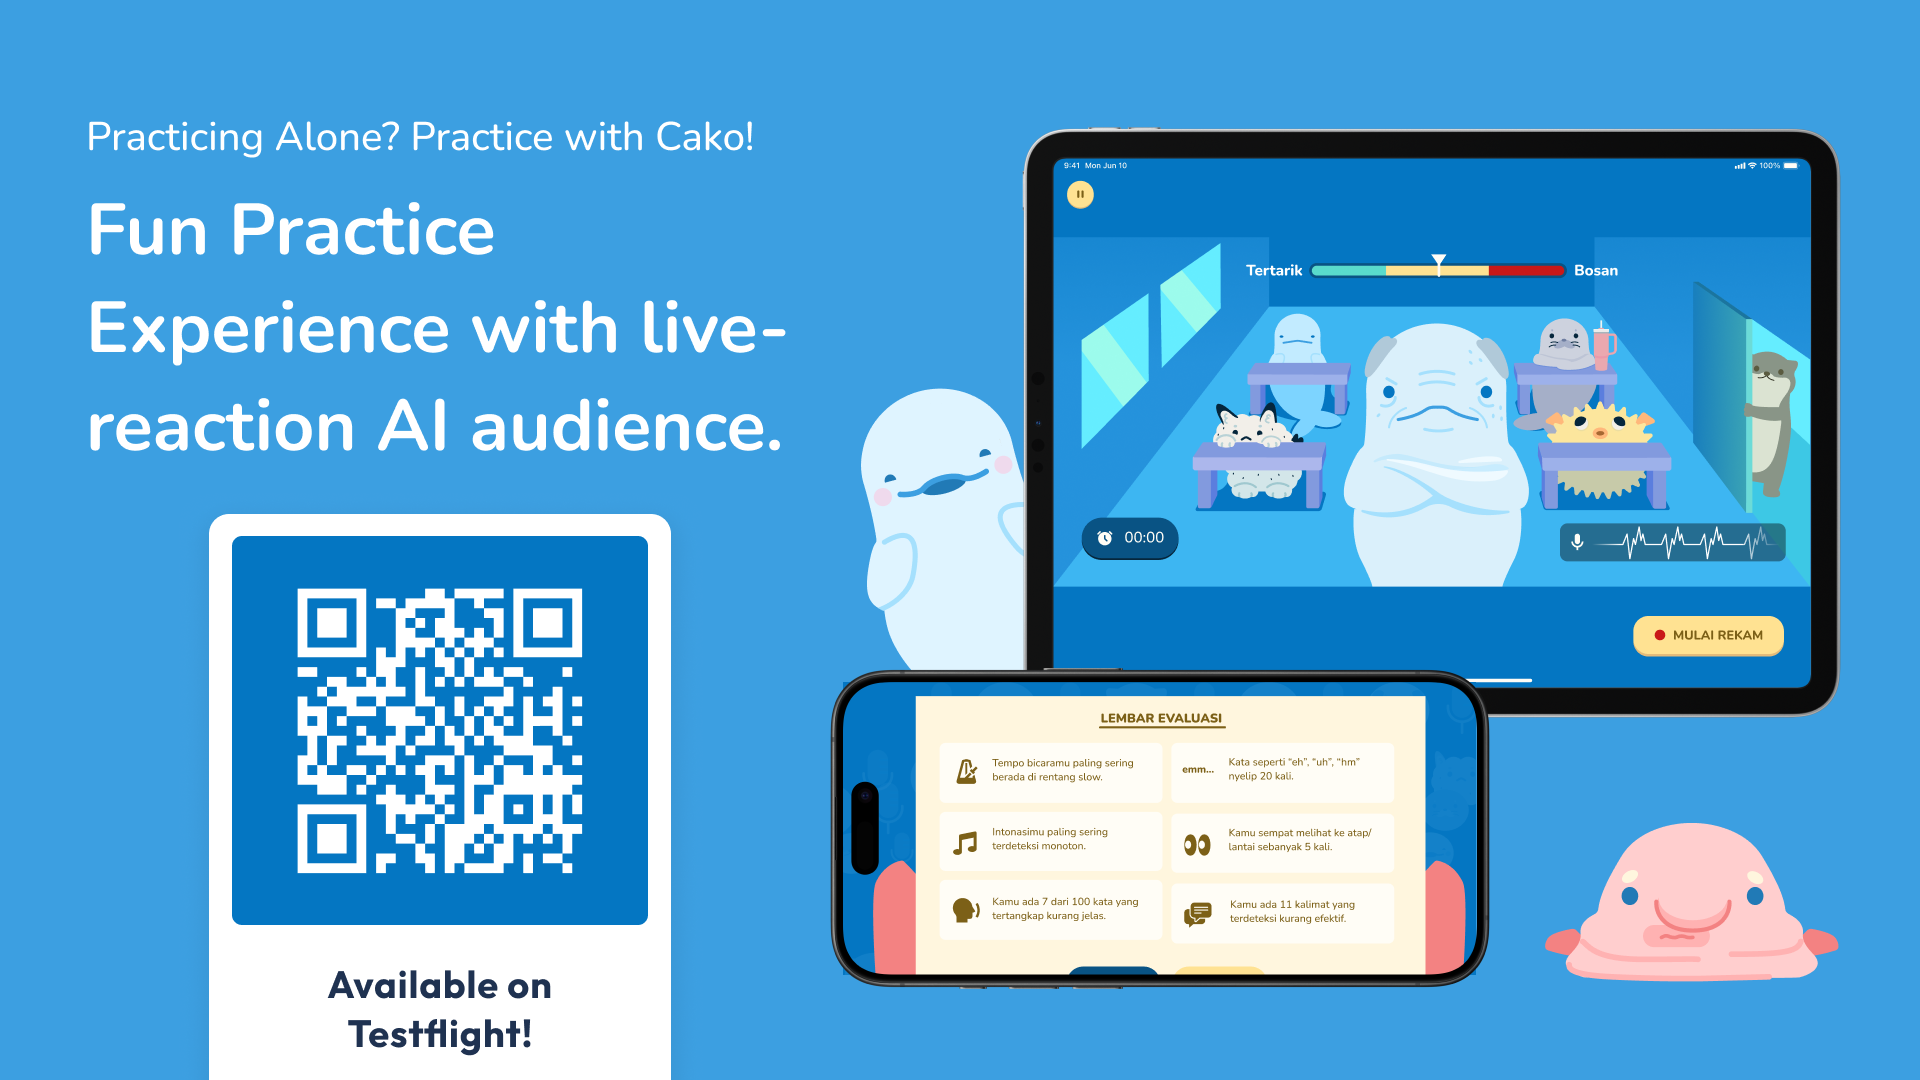
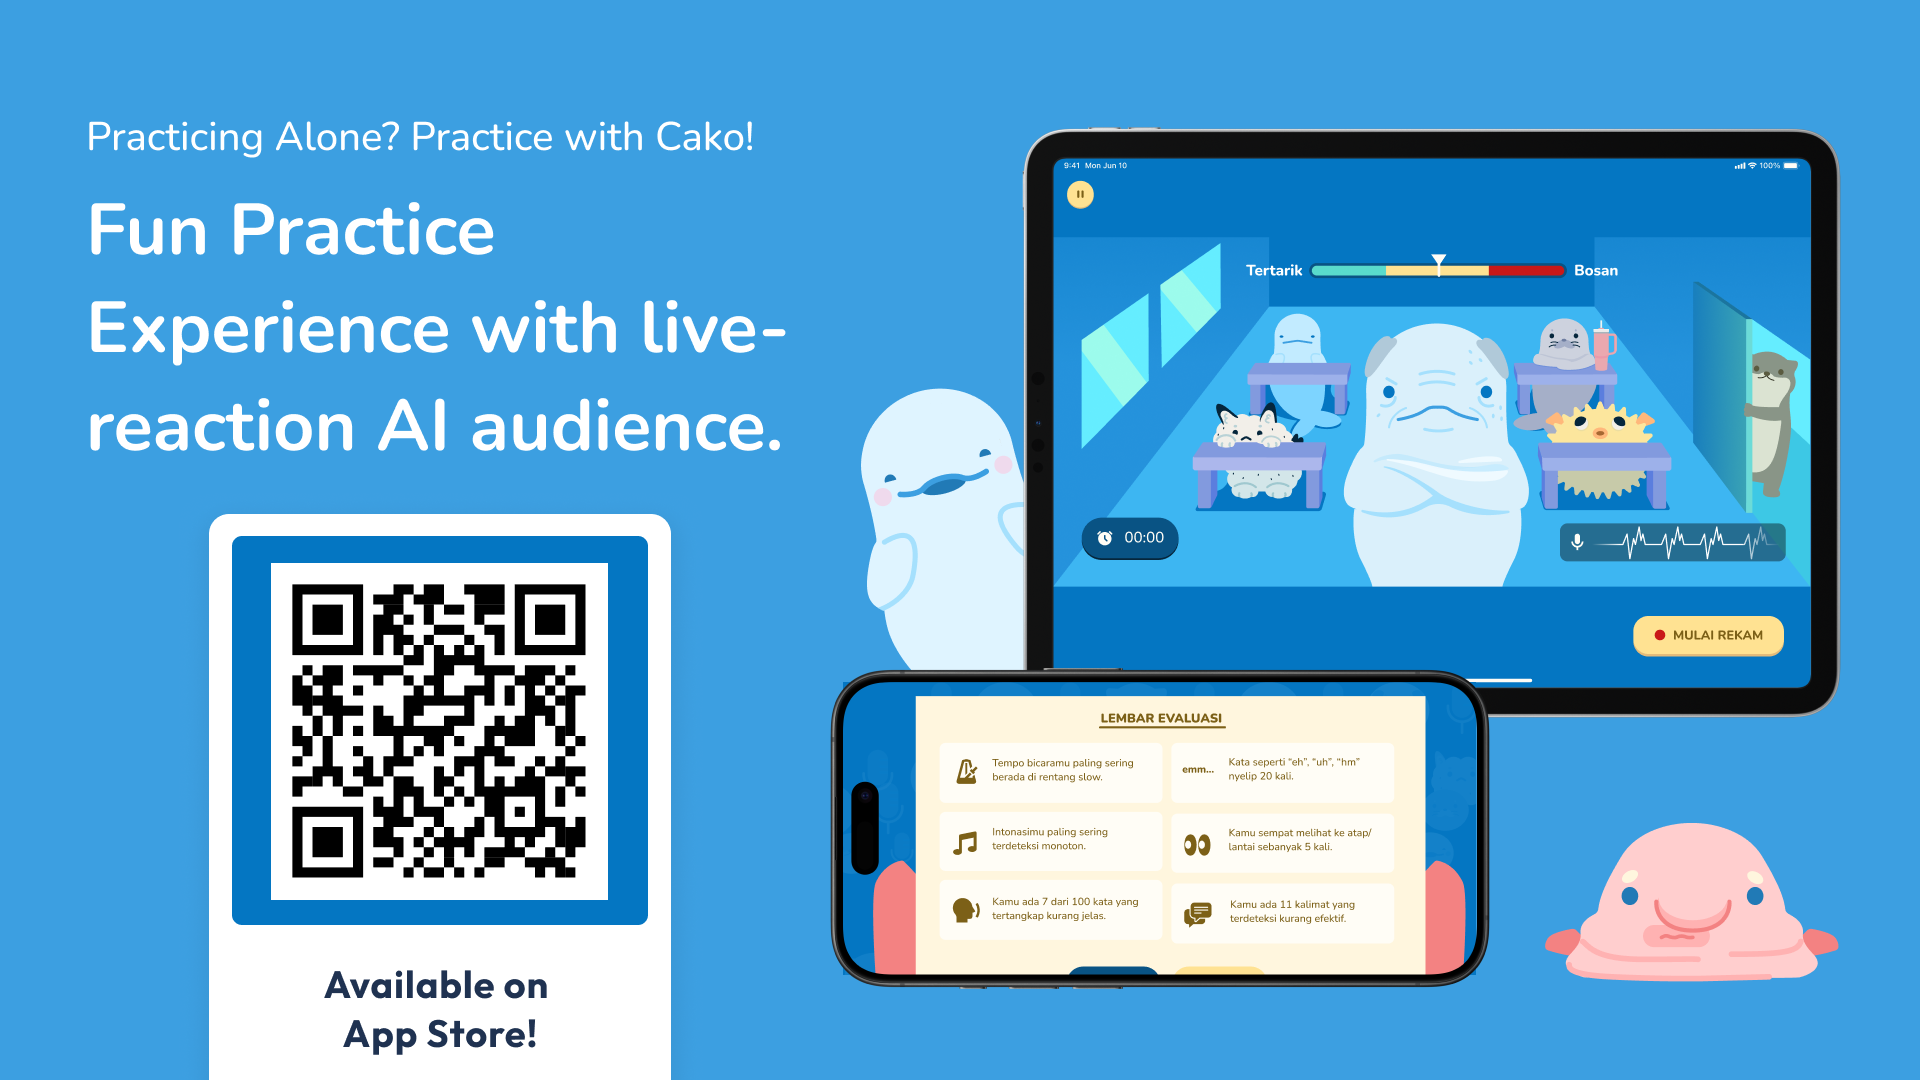
perbaikan

Changed region(s): [[0.125, 0.5194, 0.3438, 0.8556], [0.1562, 0.8861, 0.2812, 0.9778]]

diff --git a/style.css b/style.css
@@ -114,8 +114,8 @@ body {
 .hero-content{flex:1;max-width:640px}
 .hero h1, .hero .intro{margin:0}
 .hero h1{font-size:56px;margin-bottom:18px}
-.intro{color:#d8d8d8;line-height:1.6;margin-bottom:22px}
-.cta{display:inline-block;background:linear-gradient(180deg,#3fd12a,#2aa113);padding:14px 24px;border-radius:8px;color:#072000;text-decoration:none;font-weight:700;box-shadow:0 8px 36px rgba(63,209,42,0.2)}
+.intro{color:#d8d8d8;line-height:1.6;margin-bottom:22px;}
+.cta{display:inline-block;background:linear-gradient(180deg,#3fd12a,#2aa113);margin-top:22px;padding:14px 24px;border-radius:8px;color:#072000;text-decoration:none;font-weight:700;box-shadow:0 8px 36px rgba(63,209,42,0.2)}
 .worked-with{margin-top:28px;color:rgba(255,255,255,0.4);font-size:14px}
 .hero-image img{width:360px;height:360px;object-fit:cover;border-radius:50%;border:8px solid rgba(255,255,255,0.04);box-shadow:0 18px 60px rgba(0,0,0,0.6)}
 

diff --git a/index.html b/index.html
@@ -49,7 +49,7 @@
     </div>
 
     <div class="hero-image">
-      <img src="foto-pas.jpg" alt="Photo" />
+      <img src="foto-pas.png" alt="Photo" />
     </div>
   </div>
 </section>
@@ -90,7 +90,7 @@ I was also a Learner at the Apple Developer Academy, where I spent around 10 mon
          <div class="links">
             <a href="https://github.com/celine1906/NagaX"><i class="fa-brands fa-github"></i> Repository</a>
             <a href="https://www.figma.com/design/mo4IW9ctyB6sWxhl5emeWf/Cako-Design?node-id=7-2&t=s34jp5aftnonYaqx-1"><i class="fa-brands fa-figma"></i> Design</a>
-            <a href="https://testflight.apple.com/join/ZAyDH5rH"><i class="fa-brands fa-apple"></i> TestFlight</a>
+            <a href="https://apps.apple.com/id/app/cako/id6755706759"><i class="fa-brands fa-apple"></i> App Store</a>
             </div>
         </div>
         </div>
